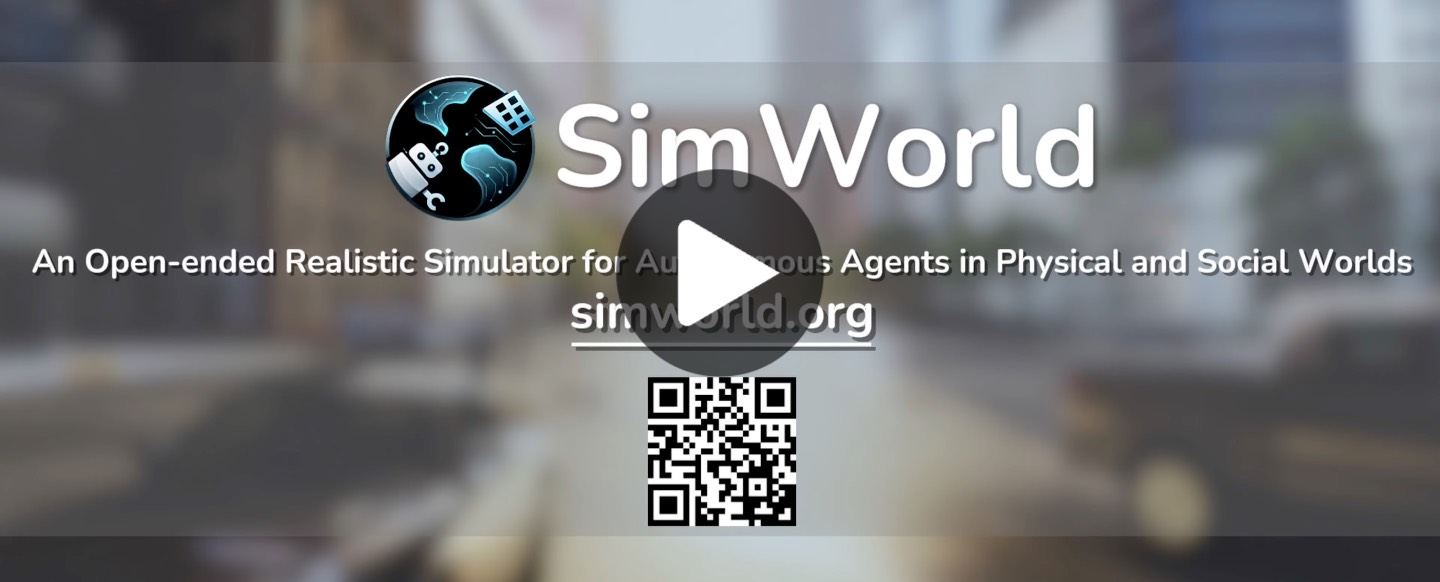
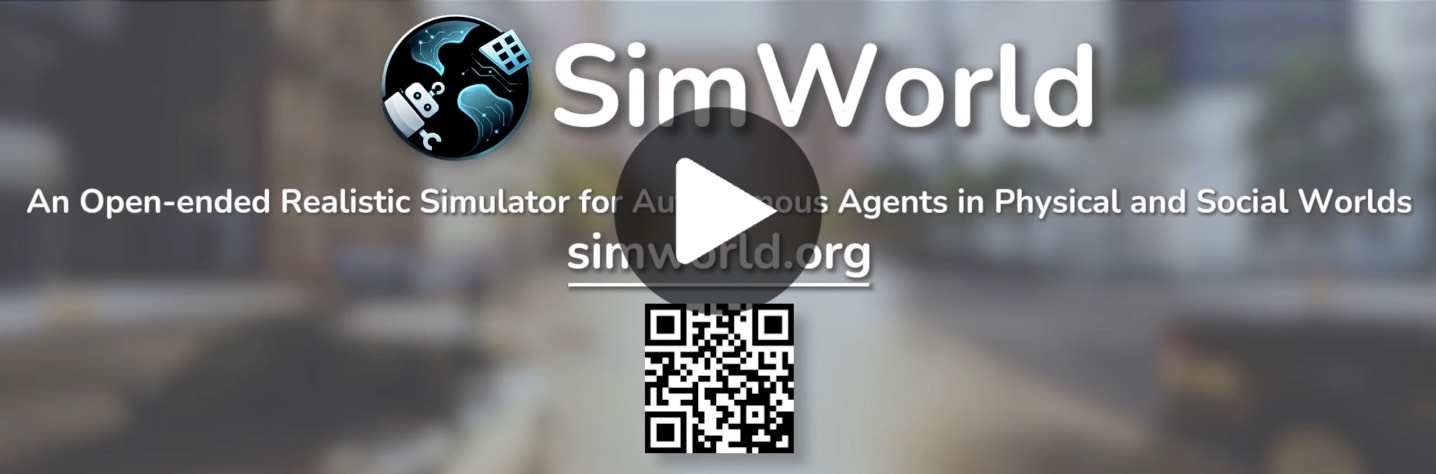
update readme video cover

diff --git a/README.md b/README.md
@@ -23,7 +23,7 @@
   </a>
 </p> -->
 <p align="center">
-  <a href="https://www.youtube.com/watch?v=-e19MzwDhy4" target="_blank" rel="noopener noreferrer">
+  <a href="https://www.youtube.com/watch?v=SfOifXTupgY" target="_blank" rel="noopener noreferrer">
     <img
       src="docs/source/assets/video_cover.jpg"
       alt="SimWorld Demo Video"
